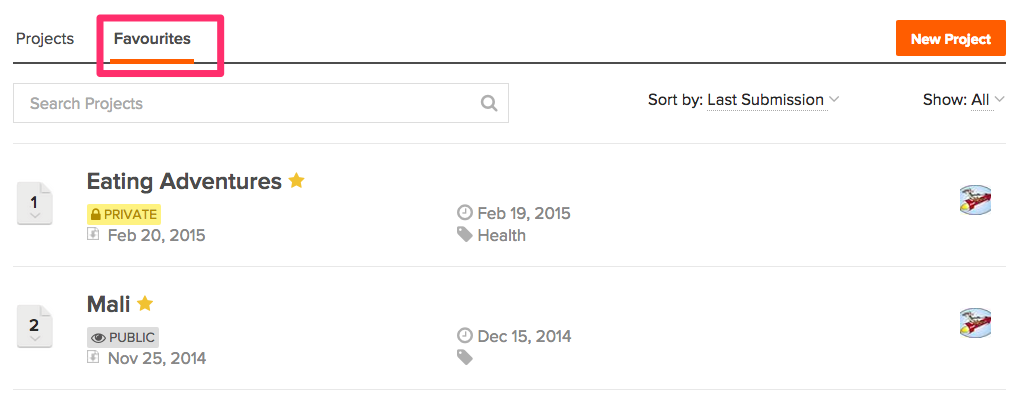
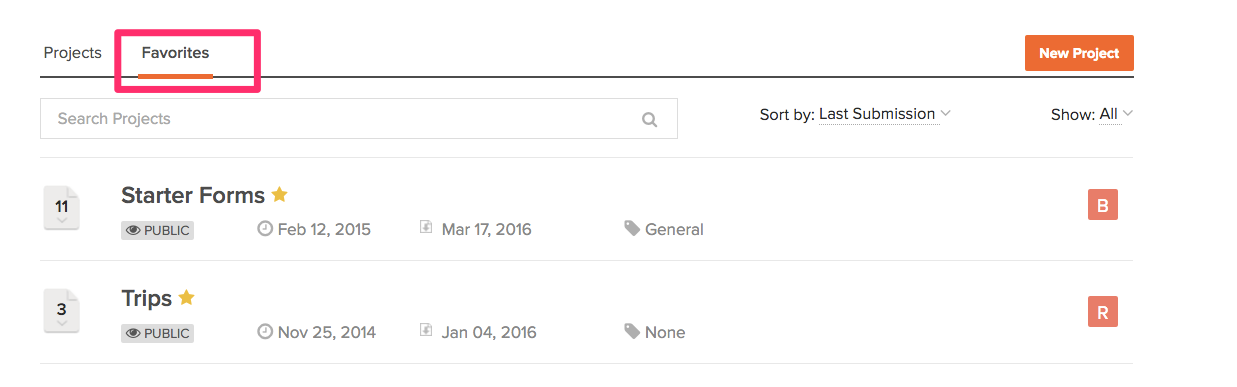
SM: updated FAQ changes

diff --git a/faqs/_posts/2014-09-23-starter-forms.md b/faqs/_posts/2014-09-23-starter-forms.md
@@ -5,12 +5,12 @@ permalink: /faq/starter-forms
 category: faq
 ---
 
-We've created several helpful XLSForms for you to download and use as a starting point.  All of these XLSForms can also be found in the [Starter Forms](https://preview.ona.io/betatester/2839) project under the **betatester** account.  Feel free to submit some data and view them using **Maps** and **Summary Charts**.
+We've created several helpful XLSForms for you to download and use as a starting point.  All of these XLSForms can also be found in the [Starter Forms](https://ona.io/betatester/2839) project under the **betatester** account.  Feel free to submit some data and view them using **Maps** and **Summary Charts**.
 
 
 ### Survey on Household Characteristics
 
-[Preview (Enketo Webform)](https://v69fa.enketo.org/webform) &nbsp; &#183; &nbsp; [Download XLSForm (Google Drive)](https://docs.google.com/a/ona.io/spreadsheets/d/1bNZx-CfBtz7AJr7DBBYeKOGKsmH-Bvc9ikUOkWqcHTI/edit#gid=130881621)
+[Preview (Enketo Webform)](https://enketo.ona.io/x/#YPoK) &nbsp; &#183; &nbsp; [Download XLSForm (Google Drive)](https://docs.google.com/a/ona.io/spreadsheets/d/1bNZx-CfBtz7AJr7DBBYeKOGKsmH-Bvc9ikUOkWqcHTI/edit#gid=130881621)
 
 <small>Category: shelter</small><br />
 <small>Unique features: geopoint, image, Likert widget (Enketo webform only)</small>
@@ -20,10 +20,10 @@ This form is meant for household visits with questions on inhabitants and buildi
 
 ### Micro-project Monthly Performance Survey
 
-[Preview (Enketo Webform)](https://xhwzg.enketo.org/webform) &nbsp; &#183; &nbsp; [Download XLSForm (Google Drive)](https://docs.google.com/a/ona.io/spreadsheets/d/1TpsFu0A22KT0o9hbt9cCyrY50SNLYQb5cLJ101iVLTI/edit#gid=1713820038)
+[Preview (Enketo Webform)](https://enketo.ona.io/x/#YPoQ) &nbsp; &#183; &nbsp; [Download XLSForm (Google Drive)](https://docs.google.com/a/ona.io/spreadsheets/d/1TpsFu0A22KT0o9hbt9cCyrY50SNLYQb5cLJ101iVLTI/edit#gid=1713820038)
 
 <small>Category: livelihood</small><br />
-<small>Unique features: cascade selects, skip logic, signature widget, constraints, calculations</small>
+<small>Unique features: [cascade selects](http://xlsform.org/#cascade), [skip logic](http://xlsform.org/#skipping), signature widget, [constraints](http://xlsform.org/#constraints), [calculations](http://xlsform.org/#calculation)</small>
 
 This form is meant for a monthly report on the performance of various micro-projects (e.g., banana growing, rabbit rearing, peanut processing, etc.) within a community and the benefits in income and living amongst the community members.
 
@@ -31,48 +31,48 @@ This form is meant for a monthly report on the performance of various micro-proj
 
 ### Baseline Survey
 
-[Preview (Enketo Webform)](https://1nyi5.enketo.org/webform ) &nbsp; &#183; &nbsp; [Download XLSForm (Google Drive)](https://docs.google.com/a/ona.io/spreadsheets/d/10LpWAr7dzlcUjO3BiFWu4ez3TDJUn83VvNkIn8RGdXk/edit#gid=398822303)
+[Preview (Enketo Webform)](https://enketo.ona.io/x/#YPoF) &nbsp; &#183; &nbsp; [Download XLSForm (Google Drive)](https://docs.google.com/a/ona.io/spreadsheets/d/10LpWAr7dzlcUjO3BiFWu4ez3TDJUn83VvNkIn8RGdXk/edit#gid=398822303)
 
-<small>Unique features: repeats, repeat counts, indexed-repeats</small>
+<small>Unique features: [repeats](http://xlsform.org/#repeats), repeat counts, indexed-repeats</small>
 
 Conduct a baseline survey of all households in an area, recording the GPS location of the household and relevant information on each household member. This form is best used with ODK Collect; repeat count and indexed-repeat functions are not supported in Enketo.
 
 
 ### Antenatal Care (ANC) Visit
 
-[Preview (Enketo Webform)](https://beta.ona.io/webform?url=https%3A%2F%2Fytwgo.enketo.org%2Fwebform) &nbsp; &#183; &nbsp; [Download XLSForm (Google Drive)](https://docs.google.com/spreadsheets/d/1ISZAPme6zzsSSWxzqI3xTjhsaT-rsBaWBb8ArnMHQ3w/edit?usp=sharing)
+[Preview (Enketo Webform)](https://enketo.ona.io/x/#YPoP) &nbsp; &#183; &nbsp; [Download XLSForm (Google Drive)](https://docs.google.com/spreadsheets/d/1ISZAPme6zzsSSWxzqI3xTjhsaT-rsBaWBb8ArnMHQ3w/edit?usp=sharing)
 
 <small>Category: health</small><br />
-<small>Unique features: skip logic, constraints, advanced calculations</small>
+<small>Unique features: [skip logic](http://xlsform.org/#skipping), [constraints](http://xlsform.org/#constraints), advanced calculations</small>
 
 This form records a pregnant woman’s health information and vitals during a routine antenatal care (ANC) visit.
 
 
 ### Fatal injury surveillance reporting form
 
-[Preview (Enketo Webform)](https://beta.ona.io/webform?url=https%3A%2F%2Fgeknv.enketo.org%2Fwebform) &nbsp; &#183; &nbsp; [Download XLSForm (Google Drive)](https://docs.google.com/spreadsheets/d/1dJUT4mf9IikAfZdSlHQhI547kZcdypR2Foznn06kXsM/edit?usp=sharing)
+[Preview (Enketo Webform)](https://enketo.ona.io/x/#YPoz) &nbsp; &#183; &nbsp; [Download XLSForm (Google Drive)](https://docs.google.com/spreadsheets/d/1dJUT4mf9IikAfZdSlHQhI547kZcdypR2Foznn06kXsM/edit?usp=sharing)
 
 <small>Category: health</small><br />
-<small>Unique features: grid theme in Enketo</small>
+<small>Unique features: [grid theme in Enketo](http://xlsform.org/#grid)</small>
 
 This form is an adaptation of the WHO fatal injury reporting form.
 
 
 ### Structure Survey on Malaria Spraying
 
-[Preview (Enketo Webform)](https://beta.ona.io/webform?url=https%3A%2F%2Ftpdej.enketo.org%2Fwebform) &nbsp; &#183; &nbsp; [Download XLSForm (Google Drive)](https://docs.google.com/spreadsheets/d/1P82SXDobk8ftrJQm2UJXyQGjxbTsKSn2aFLd6nBgps8/edit?usp=sharing)
+[Preview (Enketo Webform)](https://enketo.ona.io/x/#YPo9) &nbsp; &#183; &nbsp; [Download XLSForm (Google Drive)](https://docs.google.com/spreadsheets/d/1P82SXDobk8ftrJQm2UJXyQGjxbTsKSn2aFLd6nBgps8/edit?usp=sharing)
 
 <small>Category: environment</small><br />
-<small>Unique features: cascade selects, advanced constraints, geopoint, instance name</small>
+<small>Unique features: [cascade selects](http://xlsform.org/#cascade), advanced constraints, [geopoint](http://xlsform.org/#gps), instance name</small>
 
 This form is used to record coverage of insecticide spraying for malaria prevention.
 
 
 ### Household Survey on Water Usage and Practices
 
-[Preview (Enketo Webform)](https://beta.ona.io/webform?url=https%3A%2F%2Foixa0.enketo.org%2Fwebform) &nbsp; &#183; &nbsp; [Download XLSForm (Google Drive)](https://docs.google.com/spreadsheets/d/1u4gflWl_p4C1FXkjUCDhvlfD3x7ThejjuADyibM87X4/edit?usp=sharing)
+[Preview (Enketo Webform)](https://enketo.ona.io/x/#YPoK) &nbsp; &#183; &nbsp; [Download XLSForm (Google Drive)](https://docs.google.com/spreadsheets/d/1u4gflWl_p4C1FXkjUCDhvlfD3x7ThejjuADyibM87X4/edit?usp=sharing)
 
 <small>Category: water</small><br />
-<small>Unique features: cascade selects, Likert widget (Enketo webform only)</small>
+<small>Unique features: [cascade selects](http://xlsform.org/#cascade), Likert widget (Enketo webform only)</small>
 
 This form is used to survey water usage and practices at the household level.

diff --git a/faqs/_posts/2015-10-01-filtered-datasets.md b/faqs/_posts/2015-10-01-filtered-datasets.md
@@ -1,0 +1,90 @@
+---
+layout: post
+title: "How do filtered datasets work?"
+permalink: /faq/filtered-datasets
+published: true
+category: faq
+---
+
+A filtered dataset is a subset of form submission data that fulfils certain conditions set by the user. They are useful when you want to share a dataset with other people, but would like to keep certain fields or records private. 
+
+Filtered datasets allow you to select certain fields from the data you’d want to show, enabling you to hide data such as names or sensitive details. You can also filter responses so records only appear if specific answers show up.
+
+Access to filtered datasets works the same way as datasets projects. You can save it to a different project than the original parent dataset and control who has access to the data.
+
+### Creating a filtered dataset
+
+Filtered datasets can be created from a form (with submissions) using the **Create filtered dataset** option in the form’s dropdown menu. Below are the steps to follow to create **Filtered Datasets**:
+
+1. Locate the dataset you would like to create a filtered dataset for on your Project page. Click on the dropdown menu next to the form and select **Create filtered dataset.**
+<br><br>
+![](/content/screenshots/faq/filtered-dataset-1.png)
+<br><br>
+2. In the create filtered dataset wizard, select the fields you want to show by ticking the checkboxes to the left of the fields. Click the checkbox above your fields to toggle **All fields.** Leave the checkbox unchecked in fields that you want to hide in your filtered dataset. 
+<br><br>
+![](/content/screenshots/faq/filtered-dataset-2.png)
+<br>
+3. When you are done selecting which fields you want to show, click the **Next** button at the bottom.
+<br><br>
+![](/content/screenshots/faq/filtered-dataset-3.png)
+4. In the next step, you can **Add filters** to show records that match specific answers to fields. For example, if you have a field for “Gender of household Head”, you can add a filter for “Female” (in our dataset , the option "Female" is represented by the variable name "2") so that only records that answered that field with “Female” show up in the filtered dataset and records that have the answer “Male” are hidden. There is more information on this step below in the [How filters work](#filters) section. Click the **Next** button when you are done adding filters.
+<br><br>
+![](/content/screenshots/faq/filtered-dataset-4.png)
+
+5. To **Confirm and Save** your created filtered dataset, enter the **Name of linked dataset** in the textbox.
+<br><br>
+![](/content/screenshots/faq/filtered-dataset-5.png)
+
+6. From the Project dropdown menu, select the project you’d like the filtered dataset to be placed in. If you’d like filtered dataset to be placed in a different project than the original parent dataset select the **New Project** option.
+<br><br>
+![](/content/screenshots/faq/filtered-dataset-6.png)
+
+7. Once you’re done click on the **Save** button.
+<br><br>
+![](/content/screenshots/faq/filtered-dataset-7.png)
+
+8. You should see a label with the text **filtered dataset** next to your created filtered dataset. The created filtered dataset can be accessed in the Project it is in.
+<br><br>
+![](/content/screenshots/faq/filtered-dataset-8.png)
+
+> 
+**Note:**<br/> 
+>
+* A filtered dataset inherits the same permission settings as the project it is in. The permissions of the parent dataset does not impact the permissions of the child filtered dataset.
+<br><br>
+* If you choose to hide fields in a filtered dataset, editing records in that filtered dataset will be disabled for all users. Read more about why in the [When editing becomes disabled...](#disabled) section below. 
+
+
+### How filters work<a name="filters"></a>
+
+Filters in filtered datasets allow you to show only records with specific answers. In other words, if you were viewing the data table, only show specific rows with fields that match your filter would show and rows that do not will be hidden.
+
+After selecting the fields you want to show (step 3 above), you’ll navigate to the **Add Filters** page. To add a filter follow the steps below:
+
+1. Select a specific field from your dataset on the **Select Field** drop-down menu, e.g.Informal settlement
+<br><br>
+![](/content/screenshots/faq/filtered-dataset-9.png)
+2. From the constraint list, select a **Constraint.** The constraint selected varies from the type of question, for instance if it’s a text field then a constraint like Equals will be selected. For integer fields a constraints such as Greater than or Less than.
+<br><br>
+![](/content/screenshots/faq/filtered-dataset-10.png)
+3. Enter the **Filter value** in the text box and click the **Next** button to create the filtered dataset;
+<br><br>
+![](/content/screenshots/faq/filtered-dataset-11.png)
+
+>
+**Note:** <br/> You can add as more filters by clicking on the **Add Filter** button.
+
+### Adding and editing records in filtered datasets <a name="editing"></a>
+
+Records in a filtered dataset are not actually new, duplicate records &mdash; they are the same records of the parent dataset with hidden information. For adding and editing records, this has a few implications:
+
+- For new records: records cannot be added to the filtered dataset, they must be added to the parent dataset. Otherwise, there is a chance that the new submission won't match the filters of the filtered dataset. A user must have **Can Submit** or greater [permissions](https://help.ona.io/guides/projects/#permission-levels) on the parent dataset to be able to do add new records to the parent dataset.
+
+- For editing records: when those records are edited from the filtered dataset, the data in the parent dataset is changed. Therefore, all of the "child" filtered datasets of the parent dataset will reflect the changes.
+
+### When editing becomes disabled in a filtered dataset <a name="disabled"></a>
+
+Filtered datasets are a helpful way to share information without compromising private data. However, because Ona data is form based, data editing is implicitly tied to the form. This means editing data is done through the form which must be shown in its entirety due to technical reasons &mdash; which in turn means editing data must be disabled when fields are hidden in order to ensure privacy permissions are upheld.
+
+>
+**Note:** <br/>XLS Reports are not yet supported for filtered datasets, hence the XLS Report link is disabled on filtered datasets.   `

diff --git a/guides/projects/_posts/2014-11-12-projects.md b/guides/projects/_posts/2014-11-12-projects.md
@@ -40,10 +40,10 @@ Create a **New Project**, that will contain all of the forms and data related to
 1. From the **Home** page, click on the **New Project** orange button, located on the right side of your projects page;
 <br><br>
 ![](/content/screenshots/projects/projects-1.png)
-1. The **Create Project** modal will pop up as shown in the in the image below;
+1. The **Create Project** modal will pop up as shown in the image below;
 <br><br>
 ![](/content/screenshots/projects/projects-2.png)
-1.Enter the name of the project, in the **Project Name** text box;
+1. Enter the name of the project, in the **Project Name** text box;
 <br><br>
 ![](/content/screenshots/projects/projects-3.png)
 1. **Select a category** from the project category dropdown e.g. Health;
@@ -59,7 +59,7 @@ Create a **New Project**, that will contain all of the forms and data related to
 ![](/content/screenshots/projects/projects-7.png)
 * Enter a collaborator's **username** or **name** that you would like to share the project with;
 ![](/content/screenshots/projects/projects-8.png)
-* Select the **permission level** from the permissions dropdown. Read more on permissions levels [here](#permission-level).
+* Select the **permission level** from the permissions dropdown. Read more on permissions levels [here](#permission-levels).
 ![](/content/screenshots/projects/projects-9.png)
 * Then, click on the **Share** button;
 ![](/content/screenshots/projects/projects-10.png)
@@ -78,7 +78,7 @@ You can also change the project category from the **Project Settings** page:
 
 ##### <a name="projects-shared-with-you"></a>Projects shared with you
 
-When you login, into your account all the Projects shared with you are accessible on your **Home** page. A project that is shared with you will have the Owner's avatar tagged to it instead of your own as illustrated in the screen shot below:
+When you login into your account all the Projects shared with you are accessible on your **Home** page. A project that is shared with you will have the Owner's avatar tagged to it instead of your own as illustrated in the screen shot below:
 
 ![](/content/screenshots/projects/projects-13.png)
 
@@ -88,7 +88,7 @@ If there is a current project you are working on or there’s a project you’d 
 
 ![](/content/screenshots/projects/projects-15.png)
 
-Once you **Star** a project, it will show up in the **Favourites** tab as shown in the image below:
+Once you **Star** a project, it will show up in the **Favorites** tab as shown in the image below:
 
 ![](/content/screenshots/projects/projects-16.png)
 
@@ -132,12 +132,12 @@ To transfer a project:
  <br><br>
  ![](/content/screenshots/projects/projects-21.png)
  <br><br>
- * Type the **New owner's username or organization username** in the text box;
+ * Type the **New owner's username** or **organization username** in the text box;
  <br><br>
   ![](/content/screenshots/projects/projects-22.png)
- * Finally, click on the **Transfer this project** button to complete the transfer;
+ * Finally, click on **Transfer this project** button to complete the transfer;
  ![](/content/screenshots/projects/projects-23.png)
-
+ 
 ##### <a name="deleting-projects"></a>Deleting projects
 
 You can delete a project from your account. Deleting a project completely removes all the forms and submissions associated with the project. This action is final and your project will be irrecoverable.
@@ -166,13 +166,13 @@ Data share settings and form submission settings both occur at the project level
 To share your project with collaborators:
 
 1. From the **Home** page, click on the **Share Project** icon;
-<br><br>
+<br>
 ![](/content/screenshots/projects/projects-27.png)
 You can also access **Share** modal from the project page. If you don’t see the Share button, you don’t have permission to change the share settings.
-<br><br>
+<br>
 ![](/content/screenshots/projects/projects-28.png)
 1. You can then **Enter a collaborator's username** or **name** that you would like to share the project with. 
-<br><br>
+<br>
 ![](/content/screenshots/projects/projects-8.png)
 
 

diff --git a/guides/first-project/_posts/2014-11-12-first-project.md b/guides/first-project/_posts/2014-11-12-first-project.md
@@ -8,22 +8,17 @@ categories:
   - "first-project"
 published: true
 ---
+* [Your first project tutorial](#your-first-ona)
+  * [Requirements](#requirements)
+  * [Sign up for an Ona account](#sign-up)
+  * [Create your project](#create-your-project)
+  * [Upload your survey(s) to your Ona project](#upload-a-survey)
+  * [Use ODK Collect or Enketo to submit data](#submit-data)
+  * [View your project data](#view-your-project-data)
 
+### <a name="your-first-ona"></a>Your first project tutorial
 
-##### Your first project tutorial
-* [Requirements](#requirements)
-* [Sign up for an Ona account](#sign-up)
-* [Create your project](#create-your-project)
-* [Upload your survey(s) to your Ona project](#upload-a-survey)
-* [Use ODK Collect or Enketo to submit data](#submit-data)
-* [View your project data](#view-your-project-data)
-
-
-
-
-### Your first project tutorial
-
-##### <a name="requirements"></a>Requirements
+#### <a name="requirements"></a>Requirements
 
 There are three requirements necessary for creating your first project in Ona:
 
@@ -50,7 +45,7 @@ You need to go to the **[Join Ona page](https://ona.io/join)** and register for 
  * Enter your **name**, **username**, **password**, and **email address** for your account. These fields are mandatory.  
  * Then, click on **Create my account** button. You will immediately be signed in to your account.  An automated email will also be sent to the email address you indicated to verify your email.  
 
-##### <a name="create-your-project"></a>Create your project
+#### <a name="create-your-project"></a>Create your project
 
 **Create a New Project**, that will contain all of the forms and data related to the project. Set sharing and form submissions permissions for the project. 
 To create a new project:
@@ -60,15 +55,16 @@ To create a new project:
 * **Share options for your Project**: The project can either be **Public** or **Private**, a **Public Project** is accessible to anyone on the internet with the project link while a **Private Project** is only accessible to Ona users to whom the project has been shared with. Click on **Public** to make the project **Public**. We’ve made the Mali project public so that it is accessible for all Ona user’s. 
 * **Collaborate with others**! Add project collaborators, type the username of the collaborator to invite them to view or contribute to a project. Then, give them permissions that will  grant them access to the project. Read more on [permissions levels](https://help.ona.io/guides/projects/#permission-levels) for more info. Then, click on the **Done** button;
 
-##### <a name="upload-a-survey"></a>Upload your survey(s) to your Ona project
+#### <a name="upload-a-survey"></a>Upload your survey(s) to your Ona project
 
-Now you're ready to Add a form!  After creating a Project,  you can publish forms for use with ODK Collect or Enketo.
+Now you're ready to Add a form!  After creating a Project,  you can publish forms for use with [ODK Collect](https://help.ona.io/guides/data-collection/#odk-collect) or [Enketo](https://help.ona.io/guides/data-collection/#using-enketo). You can read more on how the form that is uploaded is designed in [this guide](https://help.ona.io/guides/forms/#xlsform-authoring-intro).
 
-##### <a name="submit-data"></a>Use ODK Collect or Enketo to submit data
+#### <a name="submit-data"></a>Use ODK Collect or Enketo to submit data
 
 Next you need to use either ODK Collect or Enketo to submit data to the server. For details on how to submit data either tool, read the [Data Collection](https://help.ona.io/guides/data-collection/) guide.
 
 
-##### <a name="view-your-project-data"></a>View your project data
+#### <a name="view-your-project-data"></a>View your project data
 
 After submitting data from ODK Collect or via Enketo to the server you can now export the data as a nicely formatted csv,xls or kml (for Google Earth)
+

diff --git a/faqs/_posts/2015-04-13-forgot-password.md b/faqs/_posts/2015-04-13-forgot-password.md
@@ -10,7 +10,7 @@ published: true
 
 Your username and password are case-sensitive.
 
-If you forgot your password, click on the [Click here to reset it](https://beta.ona.io/request-password-reset) link on the sign in page. 
+If you forgot your password, click on the [Click here to reset it](https://ona.io/request-password-reset) link on the sign in page. 
 
 ![](/content/screenshots/faq/faq_reset_password_link.png)
 
